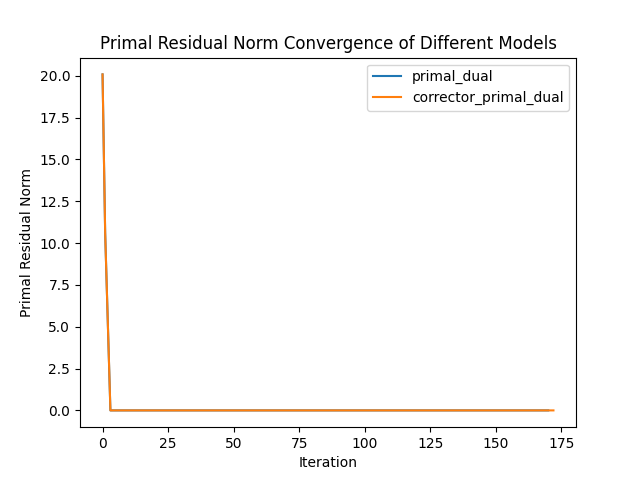
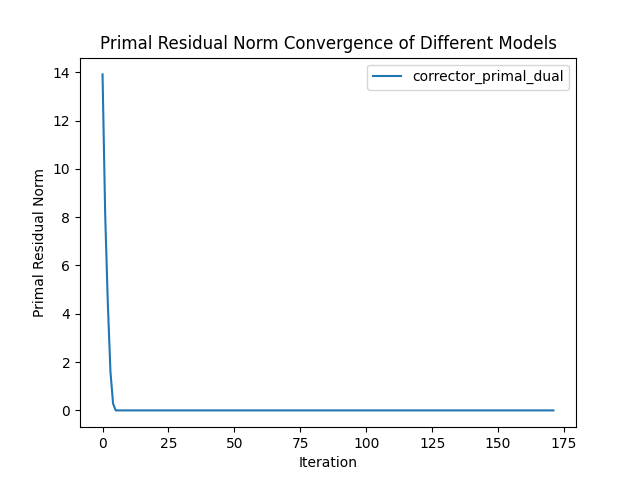
Add more visualization

diff --git a/mp3/models/central_path.py b/mp3/models/central_path.py
@@ -8,11 +8,12 @@ from tqdm import trange
 import wandb
 
 class CentralPathSolver():
-    def __init__(self, c, A, b, t=1, use_wandb=False, vis=True):
+    def __init__(self, c, A, b, t=1, update_t=1.2, use_wandb=False, vis=True):
         self.c = c
         self.A = A
         self.b = b
         self.t = t
+        self.update_t = update_t
         self.values = []
         self.vis = vis
         self.history = {
@@ -26,7 +27,6 @@ class CentralPathSolver():
         def barrier_fn(x):
             barrier = -np.sum(np.log(x+1e-7))
             assert not np.isnan(barrier)
-            # barrier = np.inf if np.isnan(barrier) else barrier
             return barrier
         
         def obj_fn(x):
@@ -39,7 +39,7 @@ class CentralPathSolver():
         for i in trange(max_iter):
             results = self.solve_ALM(x, obj_fn)
             x = results['x'] # New initial point
-            self.t = 2*self.t
+            self.t = self.update_t*self.t
             if m/self.t < tol:
                 break
         return results
@@ -52,7 +52,7 @@ class CentralPathSolver():
         grad = fx_grad + phi_grad + lambda_grad + mu_grad
         return grad
     
-    def solve_ALM(self, x0, obj_fn, max_iter=10, tol=1e-7, verbose=True):
+    def solve_ALM(self, x0, obj_fn, max_iter=100, tol=1e-5, verbose=False):
         if verbose:
             print("Starting ALM...")
         
@@ -64,8 +64,8 @@ class CentralPathSolver():
         
         last_x = x0
         self.lamb = np.ones(self.A.shape[0])
-        self.mu = 1
-        for i in trange(max_iter):
+        self.mu = self.t * x0.shape[0]
+        for i in range(max_iter):
             res = optimize.minimize(
                 augmented_lagrangian, x0, 
                 jac=self.gradient_augmented_lagrangian, 
@@ -75,15 +75,14 @@ class CentralPathSolver():
             )
             x0 = res.x
             self.lamb = self.lamb + self.mu * (self.A @ x0 - self.b)
-            self.mu = 0.9 * self.mu
-            print(f"Value: {np.dot(self.c, x0)}")
-            self.history['values'].append(np.dot(self.c, x0))
+            self.mu = 0.99 * self.mu
             if np.linalg.norm(last_x - x0) < tol:
                 if verbose:
                     print(f'Converged at iteration {i}')
                 break
             last_x = x0
-
+        
+            self.history['values'].append(np.dot(self.c, x0))
         result = {
             'x': x0,
             'value': np.dot(self.c, x0),
@@ -95,11 +94,16 @@ class CentralPathSolver():
 
 if __name__ == "__main__":
     def generate_problem(v_num=30, num_eq=10):
-        c = np.abs(np.random.randn(v_num))
+        c = np.random.randn(v_num)
         A = np.random.randn(num_eq, v_num)
         b = np.random.randn(num_eq)
+        # c = np.array([1,1])
+        # A = np.array([[1,-1]])
+        # b = np.array([1])
         return c, A, b
     c, A, b = generate_problem(v_num=30, num_eq=15)
     solver = CentralPathSolver(c, A, b)
-    x = solver.solve()
-    print(x)
+    results = solver.solve()
+    print(results['value'])
+    print(results['x'])
+    print(np.abs(A @ results['x'] - b).mean())

diff --git a/mp3/models/__init__.py b/mp3/models/__init__.py
@@ -2,10 +2,19 @@ from .central_path import CentralPathSolver
 from .primal_dual import PrimalDualSolver, PrimalDualSolver_NonSep
 from .corrector_primal_dual import CorrectorPrimalDualSolver, CorrectorPrimalDualSolver_NonSep
 
+
+def build_cp_variants(update_t):
+    class CentralPathSolver_t(CentralPathSolver):
+        def __init__(self, c, A, b, t=1, update_t=update_t, use_wandb=False, vis=True):
+            super().__init__(c, A, b, t, update_t, use_wandb, vis)
+    return CentralPathSolver_t
+
 MODEL_ZOO = {
-    'centeral_path': CentralPathSolver,
+    'centeral_path_1.2': build_cp_variants(1.2),
+    # **{f'centeral_path_{t}': build_cp_variants(t) for t in [1.1, 1.2, 1.3, 1.4, 1.5]},
     'primal_dual': PrimalDualSolver,
+    'centeral_path_1.5': build_cp_variants(1.5),
     # 'primal_dual_nosep': PrimalDualSolver_NonSep,
-    'corrector_primal_dual': CorrectorPrimalDualSolver,
+    # 'corrector_primal_dual': CorrectorPrimalDualSolver,
     # 'corrector_primal_dual_sep': CorrectorPrimalDualSolver_NonSep
 }

diff --git a/mp3/run.py b/mp3/run.py
@@ -73,7 +73,7 @@ if __name__ == '__main__':
     parser = argparse.ArgumentParser(description='CS544-24Spring/mp3')
     parser.add_argument('--vis', action='store_true', help='Visualize the optimization process')
     parser.add_argument('--num_vars', type=int, default=30, help='Number of variables')
-    parser.add_argument('--num_eqs', type=int, default=15, help='Number of equations')
+    parser.add_argument('--num_eqs', type=int, default=10, help='Number of equations')
     parser.add_argument('--tol', type=float, default=1e-4, help='Tolerance for convergence')
     parser.add_argument('--max_iter', type=int, default=500, help='Maximum number of iterations')
     parser.add_argument('--wandb', action='store_true', help='Use wandb for logging')
